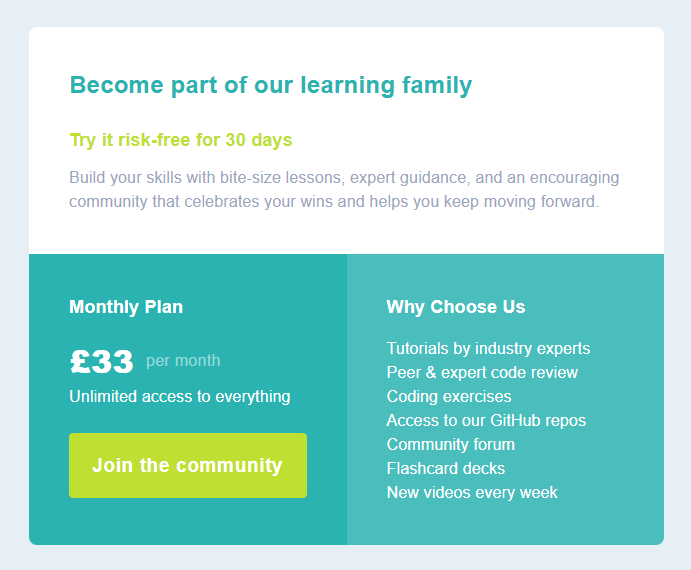
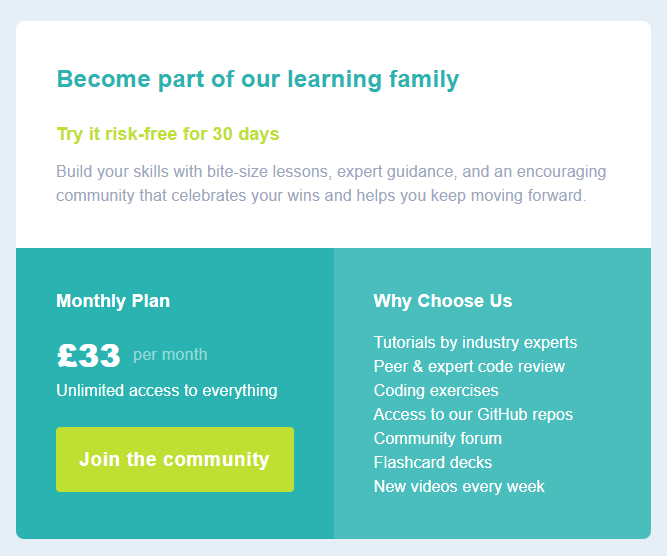
fix(app): resolve hydration mismatch (MUI App Router cache + SSR-safe media queries)

diff --git a/components/styles.ts b/components/styles.ts
@@ -7,7 +7,8 @@ export const Styles = {
     display: "flex",
     justifyContent: "center",
     alignItems: "center",
-    height: "98vh",
+    minHeight: "98vh",
+    px: { xs: 2, sm: 0 },
   } as SxProps<Theme>,
 
   /** CardContainer */
@@ -16,16 +17,16 @@ export const Styles = {
     maxHeight: "29.6875rem",
   } as SxProps<Theme>,
 
-  gridCols: (mobile: boolean): SxProps<Theme> => ({
+  gridCols: {
     display: "grid",
-    gridTemplateColumns: mobile ? "1fr" : "1fr 1fr",
-  }),
+    gridTemplateColumns: { xs: "1fr", sm: "1fr 1fr" },
+  } as SxProps<Theme>,
 
   /** CardHeader */
   headerRoot: {
     padding: "2.5rem",
     backgroundColor: "#ffffff",
-    borderRadius: "0.5rem 0.5rem 0 0",
+    borderRadius: { xs: "0.5rem 0.5rem 0 0", sm: "0.5rem 0.5rem 0 0" },
   } as SxProps<Theme>,
 
   headerTitle: {
@@ -44,12 +45,12 @@ export const Styles = {
   headerBody: { color: "#9aa7be" } as SxProps<Theme>,
 
   /** CTA */
-  ctaRoot: (mobile: boolean): SxProps<Theme> => ({
+  ctaRoot: {
     padding: "2.5rem",
     backgroundColor: "#2ab3b1",
     maxWidth: { sm: "19.875rem" },
-    borderRadius: mobile ? "0" : "0 0 0 0.5rem",
-  }),
+    borderRadius: { xs: "0", sm: "0 0 0 0.5rem" },
+  } as SxProps<Theme>,
 
   ctaPlan: {
     color: "#ffffff",
@@ -87,12 +88,12 @@ export const Styles = {
   } as SxProps<Theme>,
 
   /** WhyUs */
-  whyRoot: (mobile: boolean): SxProps<Theme> => ({
+  whyRoot: {
     padding: "2.5rem",
     backgroundColor: "#4abdbd",
     maxWidth: { sm: "19.875rem" },
-    borderRadius: mobile ? "0 0 0.5rem 0.5rem" : "0 0 0.5rem 0",
-  }),
+    borderRadius: { xs: "0 0 0.5rem 0.5rem", sm: "0 0 0.5rem 0" },
+  } as SxProps<Theme>,
 
   whyTitle: {
     color: "#ffffff",

diff --git a/components/WhyUsContainer.tsx b/components/WhyUsContainer.tsx
@@ -1,27 +1,19 @@
 import Typography from "@mui/material/Typography";
 import Box from "@mui/material/Box";
 import React from "react";
-import useMediaQuery from "@mui/material/useMediaQuery";
 import { whyUsCopy } from "@/content/pricing";
 
 import { Styles } from "./styles";
 
 const WhyUsContainer = () => {
-  const mobile = useMediaQuery("(max-width:600px)", { noSsr: true });
-
   return (
-    <Box sx={Styles.whyRoot(mobile)}>
-      <Box>
-        <Typography sx={Styles.whyTitle}>{whyUsCopy.title}</Typography>
-        {whyUsCopy.items.map((text, idx) => (
-          <Typography
-            key={text}
-            sx={idx === 0 ? Styles.whyItemFirst : Styles.whyItem}
-          >
-            {text}
-          </Typography>
-        ))}
-      </Box>
+    <Box sx={Styles.whyRoot}>
+      <Typography sx={Styles.whyTitle}>{whyUsCopy.title}</Typography>
+      {whyUsCopy.items.map((text, idx) => (
+        <Typography key={text} sx={idx === 0 ? Styles.whyItemFirst : Styles.whyItem}>
+          {text}
+        </Typography>
+      ))}
     </Box>
   );
 };

diff --git a/components/Cta.tsx b/components/Cta.tsx
@@ -2,16 +2,13 @@ import Typography from "@mui/material/Typography";
 import Box from "@mui/material/Box";
 import Button from "@mui/material/Button";
 import React from "react";
-import useMediaQuery from "@mui/material/useMediaQuery";
 import { ctaCopy } from "../src/content/pricing";
 
 import { Styles } from "./styles";
 
 const Cta = () => {
-  const mobile = useMediaQuery("(max-width:600px)", { noSsr: true });
-
   return (
-    <Box sx={Styles.ctaRoot(mobile)}>
+    <Box sx={Styles.ctaRoot}>
       <Typography sx={Styles.ctaPlan}>{ctaCopy.planLabel}</Typography>
       <Typography sx={Styles.ctaPriceRow}>
         {ctaCopy.currencySymbol}

diff --git a/components/CardContainer.tsx b/components/CardContainer.tsx
@@ -4,17 +4,14 @@ import React from "react";
 import CardHeader from "./CardHeader";
 import WhyUsContainer from "./WhyUsContainer";
 import Cta from "./Cta";
-import useMediaQuery from "@mui/material/useMediaQuery";
 
 import { Styles } from "./styles";
 
 const CardContainer = () => {
-  const mobile = useMediaQuery("(max-width:600px)", { noSsr: true });
-
   return (
     <Box sx={Styles.cardContainerRoot}>
       <CardHeader />
-      <Box sx={Styles.gridCols(mobile)}>
+      <Box sx={Styles.gridCols}>
         <Cta />
         <WhyUsContainer />
       </Box>

diff --git a/src/app/layout.tsx b/src/app/layout.tsx
@@ -15,6 +15,9 @@ export const metadata: Metadata = {
 export default function RootLayout({ children }: { children: React.ReactNode }) {
   return (
     <html lang="en">
+      <head>
+        <meta name="viewport" content="width=device-width, initial-scale=1" />
+      </head>
       <body className={`${geistSans.variable} ${geistMono.variable}`}>
         <AppRouterCacheProvider options={{ key: "mui" }}>
           <CssBaseline />
